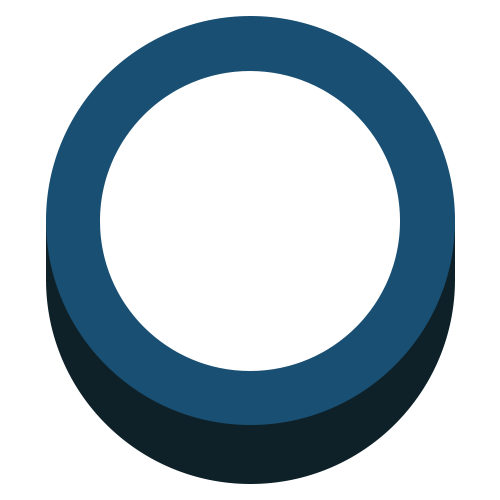
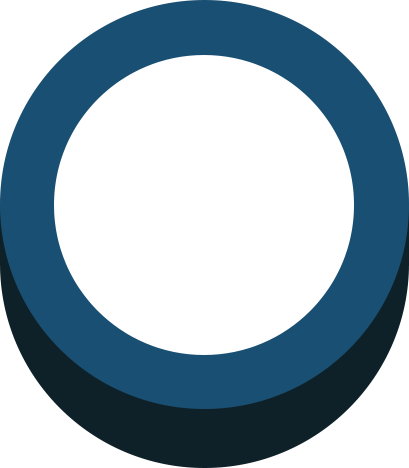
Changed a lot
Lots of changes

diff --git a/damath/piece.py b/damath/piece.py
@@ -1,7 +1,9 @@
 import pygame
 from .constants import *
-from assets import BLUE_PIECE, ORANGE_PIECE, BLUE_PIECE_KING, ORANGE_PIECE_KING
 from objects import chips_surface
+from assets import BLUE_PIECE, ORANGE_PIECE, BLUE_PIECE_KING, ORANGE_PIECE_KING
+
+SQUARE_SIZE = chips_surface.get_width()/8
 
 class Piece:
 
@@ -18,28 +20,25 @@ class Piece:
         self.HasSkipped = False
         self.x = 0
         self.y = 0
+        self.w = SQUARE_SIZE * 0.874
+        self.h = SQUARE_SIZE
 
-        self.calc_pos()
+        self.font = pygame.font.Font('font\CookieRun_Bold.ttf', 18) #18 = fontsize
+        self.text_surface = self.font.render(str(number), True, BLACK) #FFFFFF
+        self.text_rect = self.text_surface.get_rect(center=(self.x, self.y))
 
         if self.color == RED:
-            self.image = ORANGE_PIECE
-            self.image_king = ORANGE_PIECE_KING
+            self.image = pygame.transform.smoothscale(ORANGE_PIECE, (self.w, self.h))
+            self.image_king = pygame.transform.smoothscale(ORANGE_PIECE_KING, (self.w, self.h))
         else:
-            self.image = BLUE_PIECE
-            self.image_king = BLUE_PIECE_KING
-
-        # self.image_size = (chips_surface.get_width()/8, chips_surface.get_height()/8)
-        self.w = 50
-        self.h = 50
-
-        # pygame.transform.smoothscale(self.image, self.image_size)
-        # pygame.transform.smoothscale(self.image_king, self.image_size)
-        pygame.transform.smoothscale(self.image, (self.w, self.h))
-        pygame.transform.smoothscale(self.image_king, (self.w, self.h))
+            self.image = pygame.transform.smoothscale(BLUE_PIECE, (self.w, self.h))
+            self.image_king = pygame.transform.smoothscale(BLUE_PIECE_KING, (self.w, self.h))
+            
+        self.calc_pos()
 
     def calc_pos(self):
-        self.x = SQUARE_SIZE *  self.col + SQUARE_SIZE // 2
-        self.y = SQUARE_SIZE * self.row + SQUARE_SIZE // 2
+        self.x = SQUARE_SIZE * self.col + SQUARE_SIZE//2 - self.w//2
+        self.y = SQUARE_SIZE * self.row
 
     def make_king(self):
         self.IsOnPromotion = True
@@ -52,10 +51,6 @@ class Piece:
         self.HasPossibleCapture = bool
 
     def draw(self, surface, number, color):
-
-        font = pygame.font.Font('font\CookieRun_Bold.ttf', 18) #18 = fontsize
-        text_surface = font.render(str(number), True, BLACK) #FFFFFF
-        text_rect = text_surface.get_rect(center=(self.x, self.y))
         
         if not self.IsKing:
             surface.blit(self.image, (self.x, self.y))
@@ -63,20 +58,7 @@ class Piece:
         else:
             surface.blit(self.image_king, (self.x, self.y))
 
-        surface.blit(text_surface, text_rect)
-        
-        # PIECE_SIZE = (62, 62)
-        # if color == RED:
-        #     if self.IsKing:
-        #         surface.blit(pygame.transform.smoothscale(ORANGE_PIECE_KING, PIECE_SIZE), (self.x-(PIECE_SIZE[0]/2), self.y-(PIECE_SIZE[0]/2)))
-        #     else:
-        #         surface.blit(pygame.transform.smoothscale(ORANGE_PIECE, PIECE_SIZE), (self.x-(PIECE_SIZE[0]/2), self.y-(PIECE_SIZE[0]/2)))
-        # else:
-        #     if self.IsKing:
-        #         surface.blit(pygame.transform.smoothscale(BLUE_PIECE_KING, PIECE_SIZE), (self.x-(PIECE_SIZE[0]/2), self.y-(PIECE_SIZE[0]/2)))   
-        #     else:
-        #         surface.blit(pygame.transform.smoothscale(BLUE_PIECE, PIECE_SIZE), (self.x-(PIECE_SIZE[0]/2), self.y-(PIECE_SIZE[0]/2)))           
-        
+        surface.blit(self.text_surface, self.text_rect)       
 
     def move(self, row, col):
         self.row = row

diff --git a/damath/game.py b/damath/game.py
@@ -2,6 +2,7 @@ import pygame
 from .board import Board
 from .constants import ROWS, COLS, RED, LIGHT_BLUE, YELLOW, WHITE, SQUARE_SIZE, OFFSET, BOARD_OFFSET, BOARD_WIDTH, BOARD_HEIGHT
 from audio_constants import *
+from objects import SQUARE_SIZE
 
 pygame.mixer.init()
 
@@ -17,6 +18,7 @@ class Game:
 
     def update(self):
         self.board.draw_contents(self.surface)
+        self.draw_indicators(self.surface)
         self.board.draw_chips(self.surface)
         self.scoreboard.update(self.turn)
         self.draw_valid_moves(self.valid_moves)
@@ -30,6 +32,12 @@ class Game:
         self.RequiresCapture = False
         self.turn = RED
         self.valid_moves = {}
+    
+    def draw_indicators(self, surface):
+        if self.selected:
+            piece = self.selected
+            selected_piece_rect = pygame.Rect((piece.col*SQUARE_SIZE, piece.row*SQUARE_SIZE), (SQUARE_SIZE, SQUARE_SIZE))
+            pygame.draw.rect(surface, YELLOW, selected_piece_rect)
 
     def winner(self):   
         if (self.board.red_left <=0 or self.board.white_left <= 0):
@@ -47,7 +55,6 @@ class Game:
         self._init()
 
     def select(self, row, col):
-
         if self.selected:
             result = self._move(row, col)
             if not result:
@@ -115,29 +122,16 @@ class Game:
                 self.board.piece_skipped(self.selected, row, col, bool=False)
                 self.change_turn()
         else:
+            self.selected = None
             return False
+        self.selected = None
         return True
-    
+
     def draw_valid_moves(self, moves):
-
-        if self.selected:
-            if self.selected.color == RED:
-                circle_color = RED
-            else:
-                circle_color = LIGHT_BLUE
-
-            if moves:
-                for move in moves:
-                    row, col = move
-                    """alpha_circle = pygame.Surface((SQUARE_SIZE, SQUARE_SIZE))
-                    self.surface.blit(alpha_circle, (col * SQUARE_SIZE, row * SQUARE_SIZE))
-                    alpha_circle.set_alpha(50)
-                    alpha_circle.fill(WHITE)
-                    pygame.draw.circle(alpha_circle, YELLOW, (5, 5), 16)"""
-                    pygame.draw.circle(self.surface, circle_color, (col * SQUARE_SIZE + SQUARE_SIZE//2, row * SQUARE_SIZE + SQUARE_SIZE//2), 16)
-                    #pygame.draw.rect(self.surface, YELLOW, (col * SQUARE_SIZE, row *SQUARE_SIZE, SQUARE_SIZE, SQUARE_SIZE))
-        else:
-            pass
+        if moves:
+            for move in moves:
+                row, col = move
+                pygame.draw.circle(self.surface, YELLOW, (col * SQUARE_SIZE + SQUARE_SIZE//2, row * SQUARE_SIZE + SQUARE_SIZE//2), SQUARE_SIZE*0.25)
 
     def change_turn(self):
         print("Changed turns")

diff --git a/damath/board.py b/damath/board.py
@@ -1,6 +1,6 @@
 import pygame
 from .piece import Piece
-from .constants import WHITE, BROWN, RED, ROWS, COLS, SQUARE_SIZE, LIGHT_BLUE
+from .constants import WHITE, BROWN, RED, ROWS, COLS, LIGHT_BLUE
 from assets import BOARD
 from audio_constants import *
 from display_constants import BG_COLOR
@@ -135,7 +135,6 @@ class Board:
         self.draw_squares(surface)
 
     def draw_chips(self, surface):
-
         for row in range(ROWS):
             for col in range(COLS):
                 piece = self.board[row][col]

diff --git a/audio_constants.py b/audio_constants.py
@@ -2,7 +2,7 @@ import pygame
 pygame.mixer.init()
 
 CAPTURE_SOUND = pygame.mixer.Sound('audio\capture.wav')
-INVALID_SOUND = pygame.mixer.Sound('audio\pop.wav')
+INVALID_SOUND = pygame.mixer.Sound('audio\invalid.mp3')
 MOVE_SOUND = pygame.mixer.Sound('audio\move.wav')
 POP_SOUND = pygame.mixer.Sound('audio\pop.wav')
 SELECT_SOUND = pygame.mixer.Sound('audio\select.wav')

diff --git a/objects.py b/objects.py
@@ -18,3 +18,5 @@ tiles_rect = pygame.Rect((0, 0), (damath_board.w*0.765, damath_board.h*0.765))
 tiles_rect.center = (board_area_surface.get_width()//2, board_area_surface.get_height()//2)
 
 chips_surface = pygame.Surface((tiles_rect.w, tiles_rect.h))
+
+SQUARE_SIZE = chips_surface.get_width()//8

diff --git a/damath/constants.py b/damath/constants.py
@@ -29,7 +29,7 @@ GRAY = (128, 128, 128)
 BROWN = '#A05B08'
 LIGHT_BLUE = '#3B6DFE'
 DARKER_BLUE = '#182D69'
-YELLOW = '#FFE804'
+YELLOW = '#FFFF5B'
 
 # BOARD_W = BOARD_BLACK.get_width()
 # BOARD_H = BOARD_BLACK.get_height()
